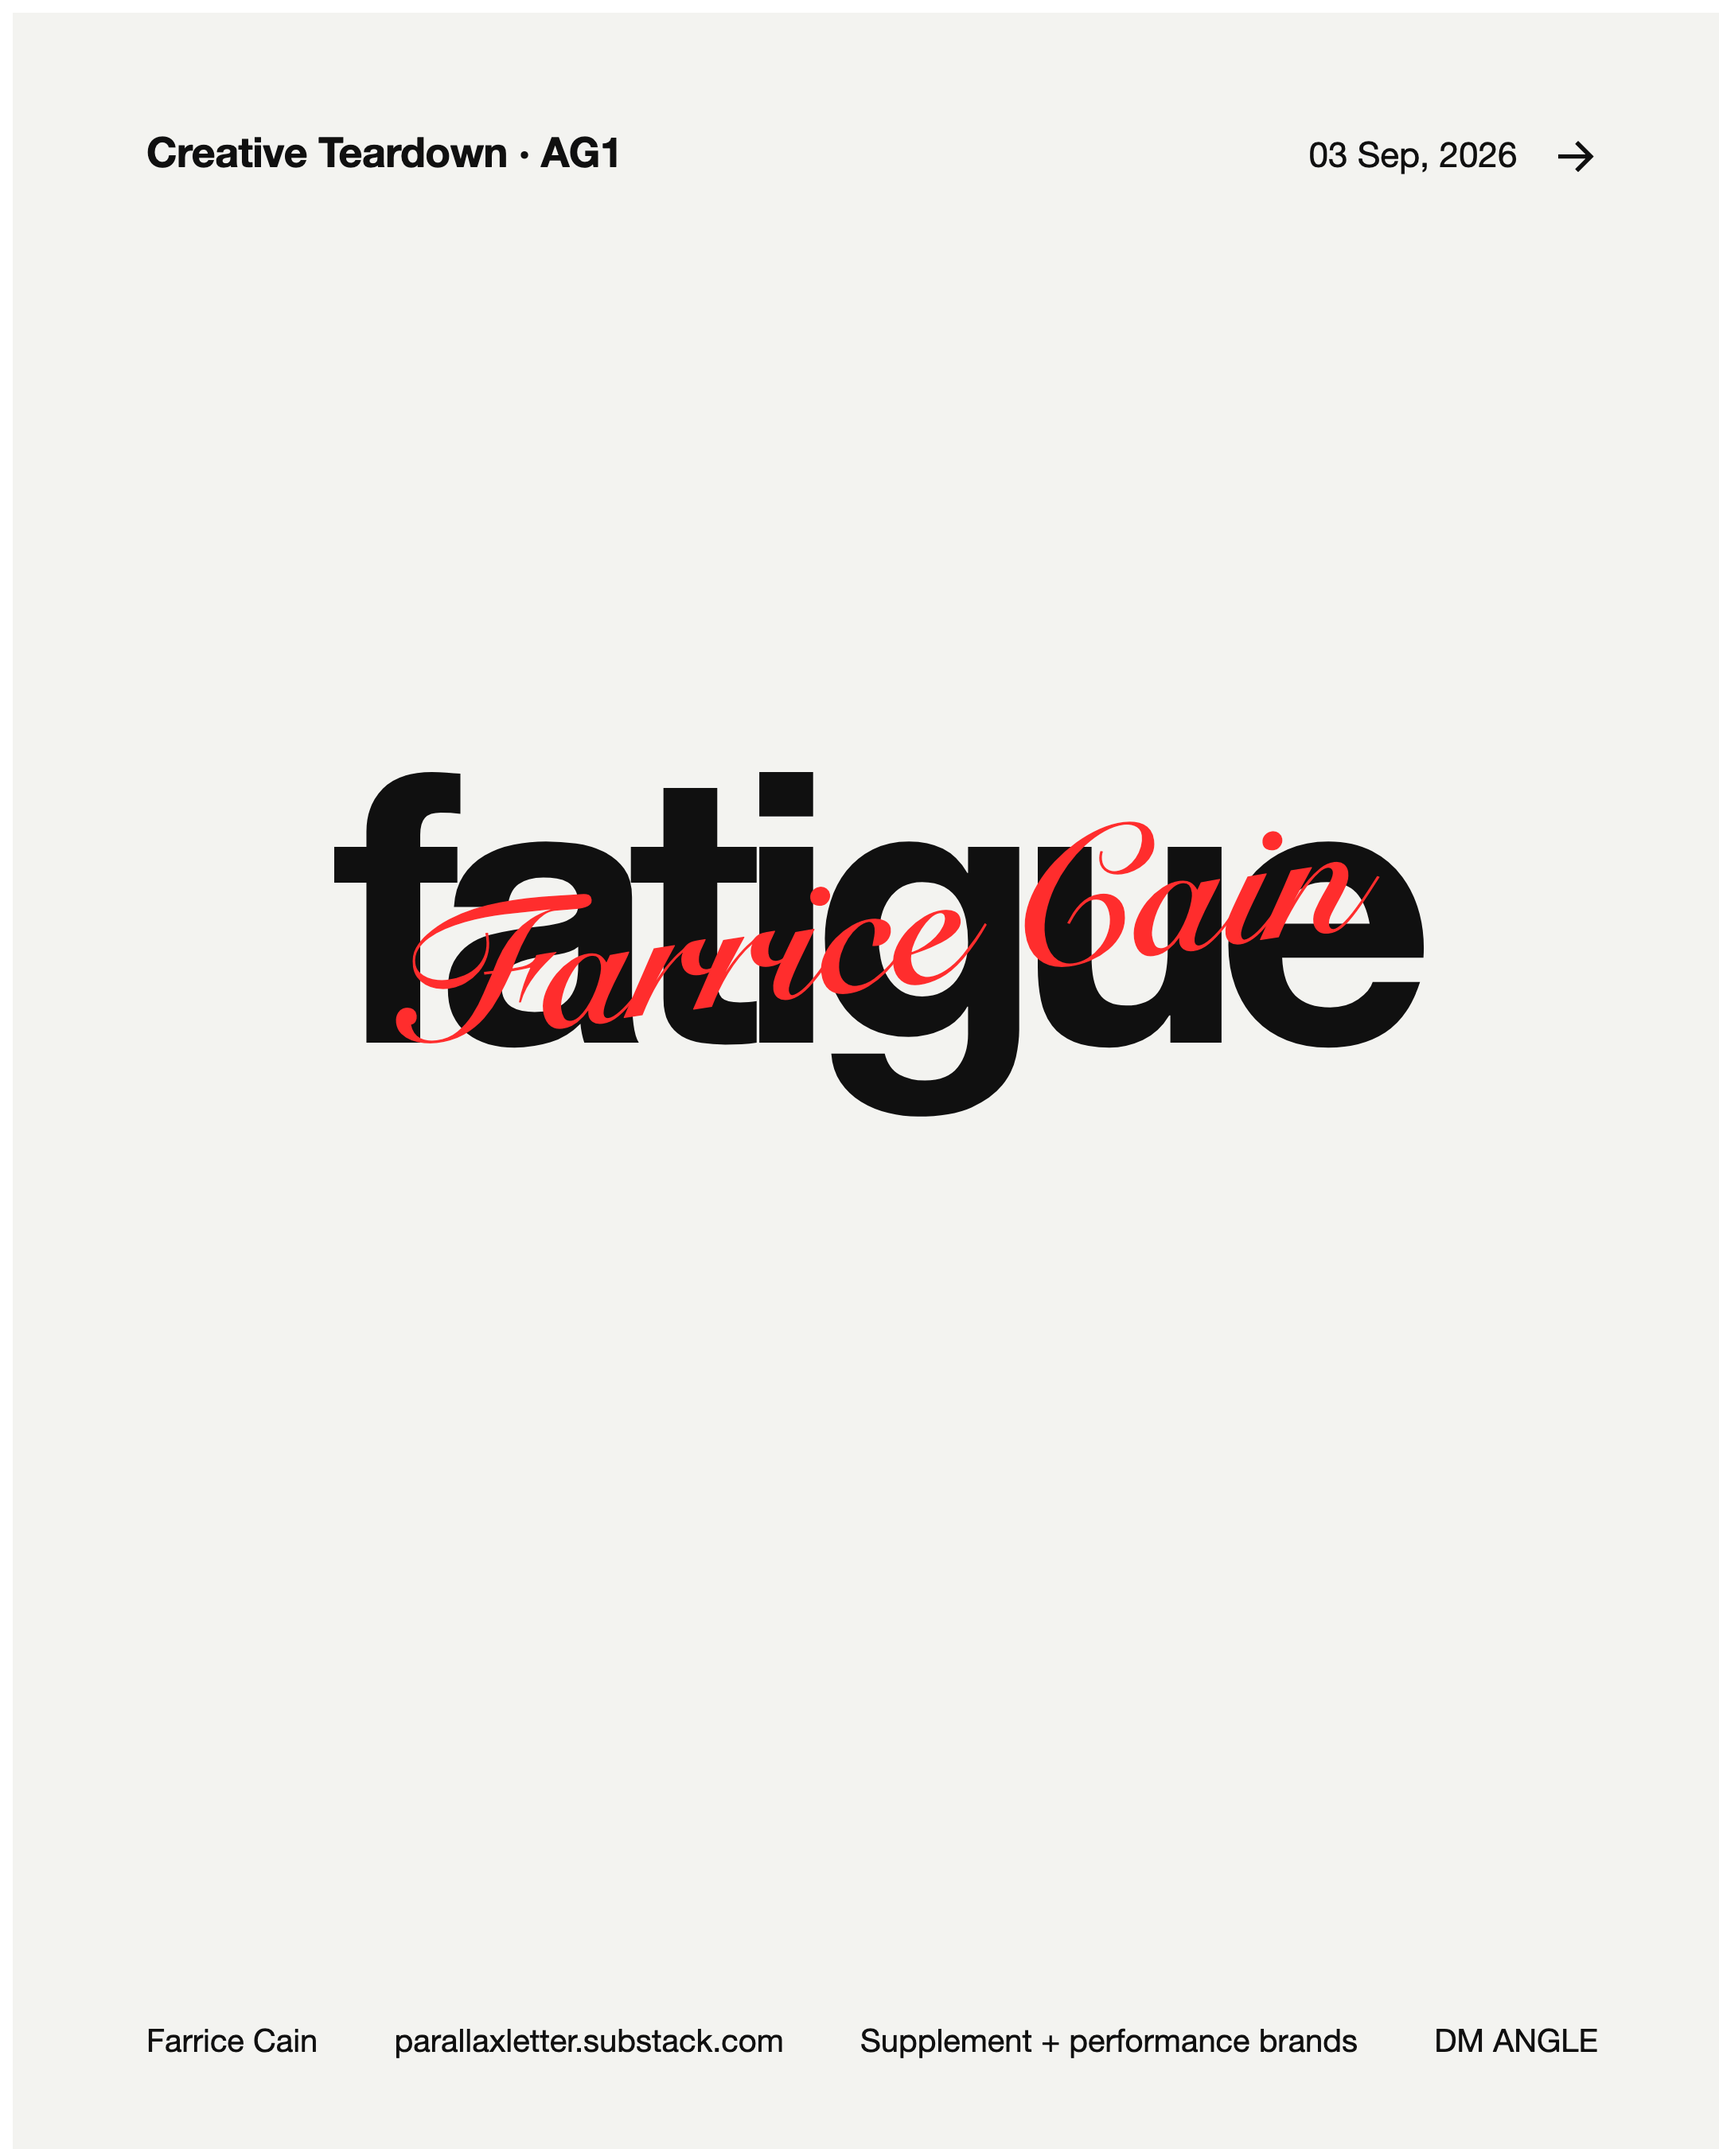
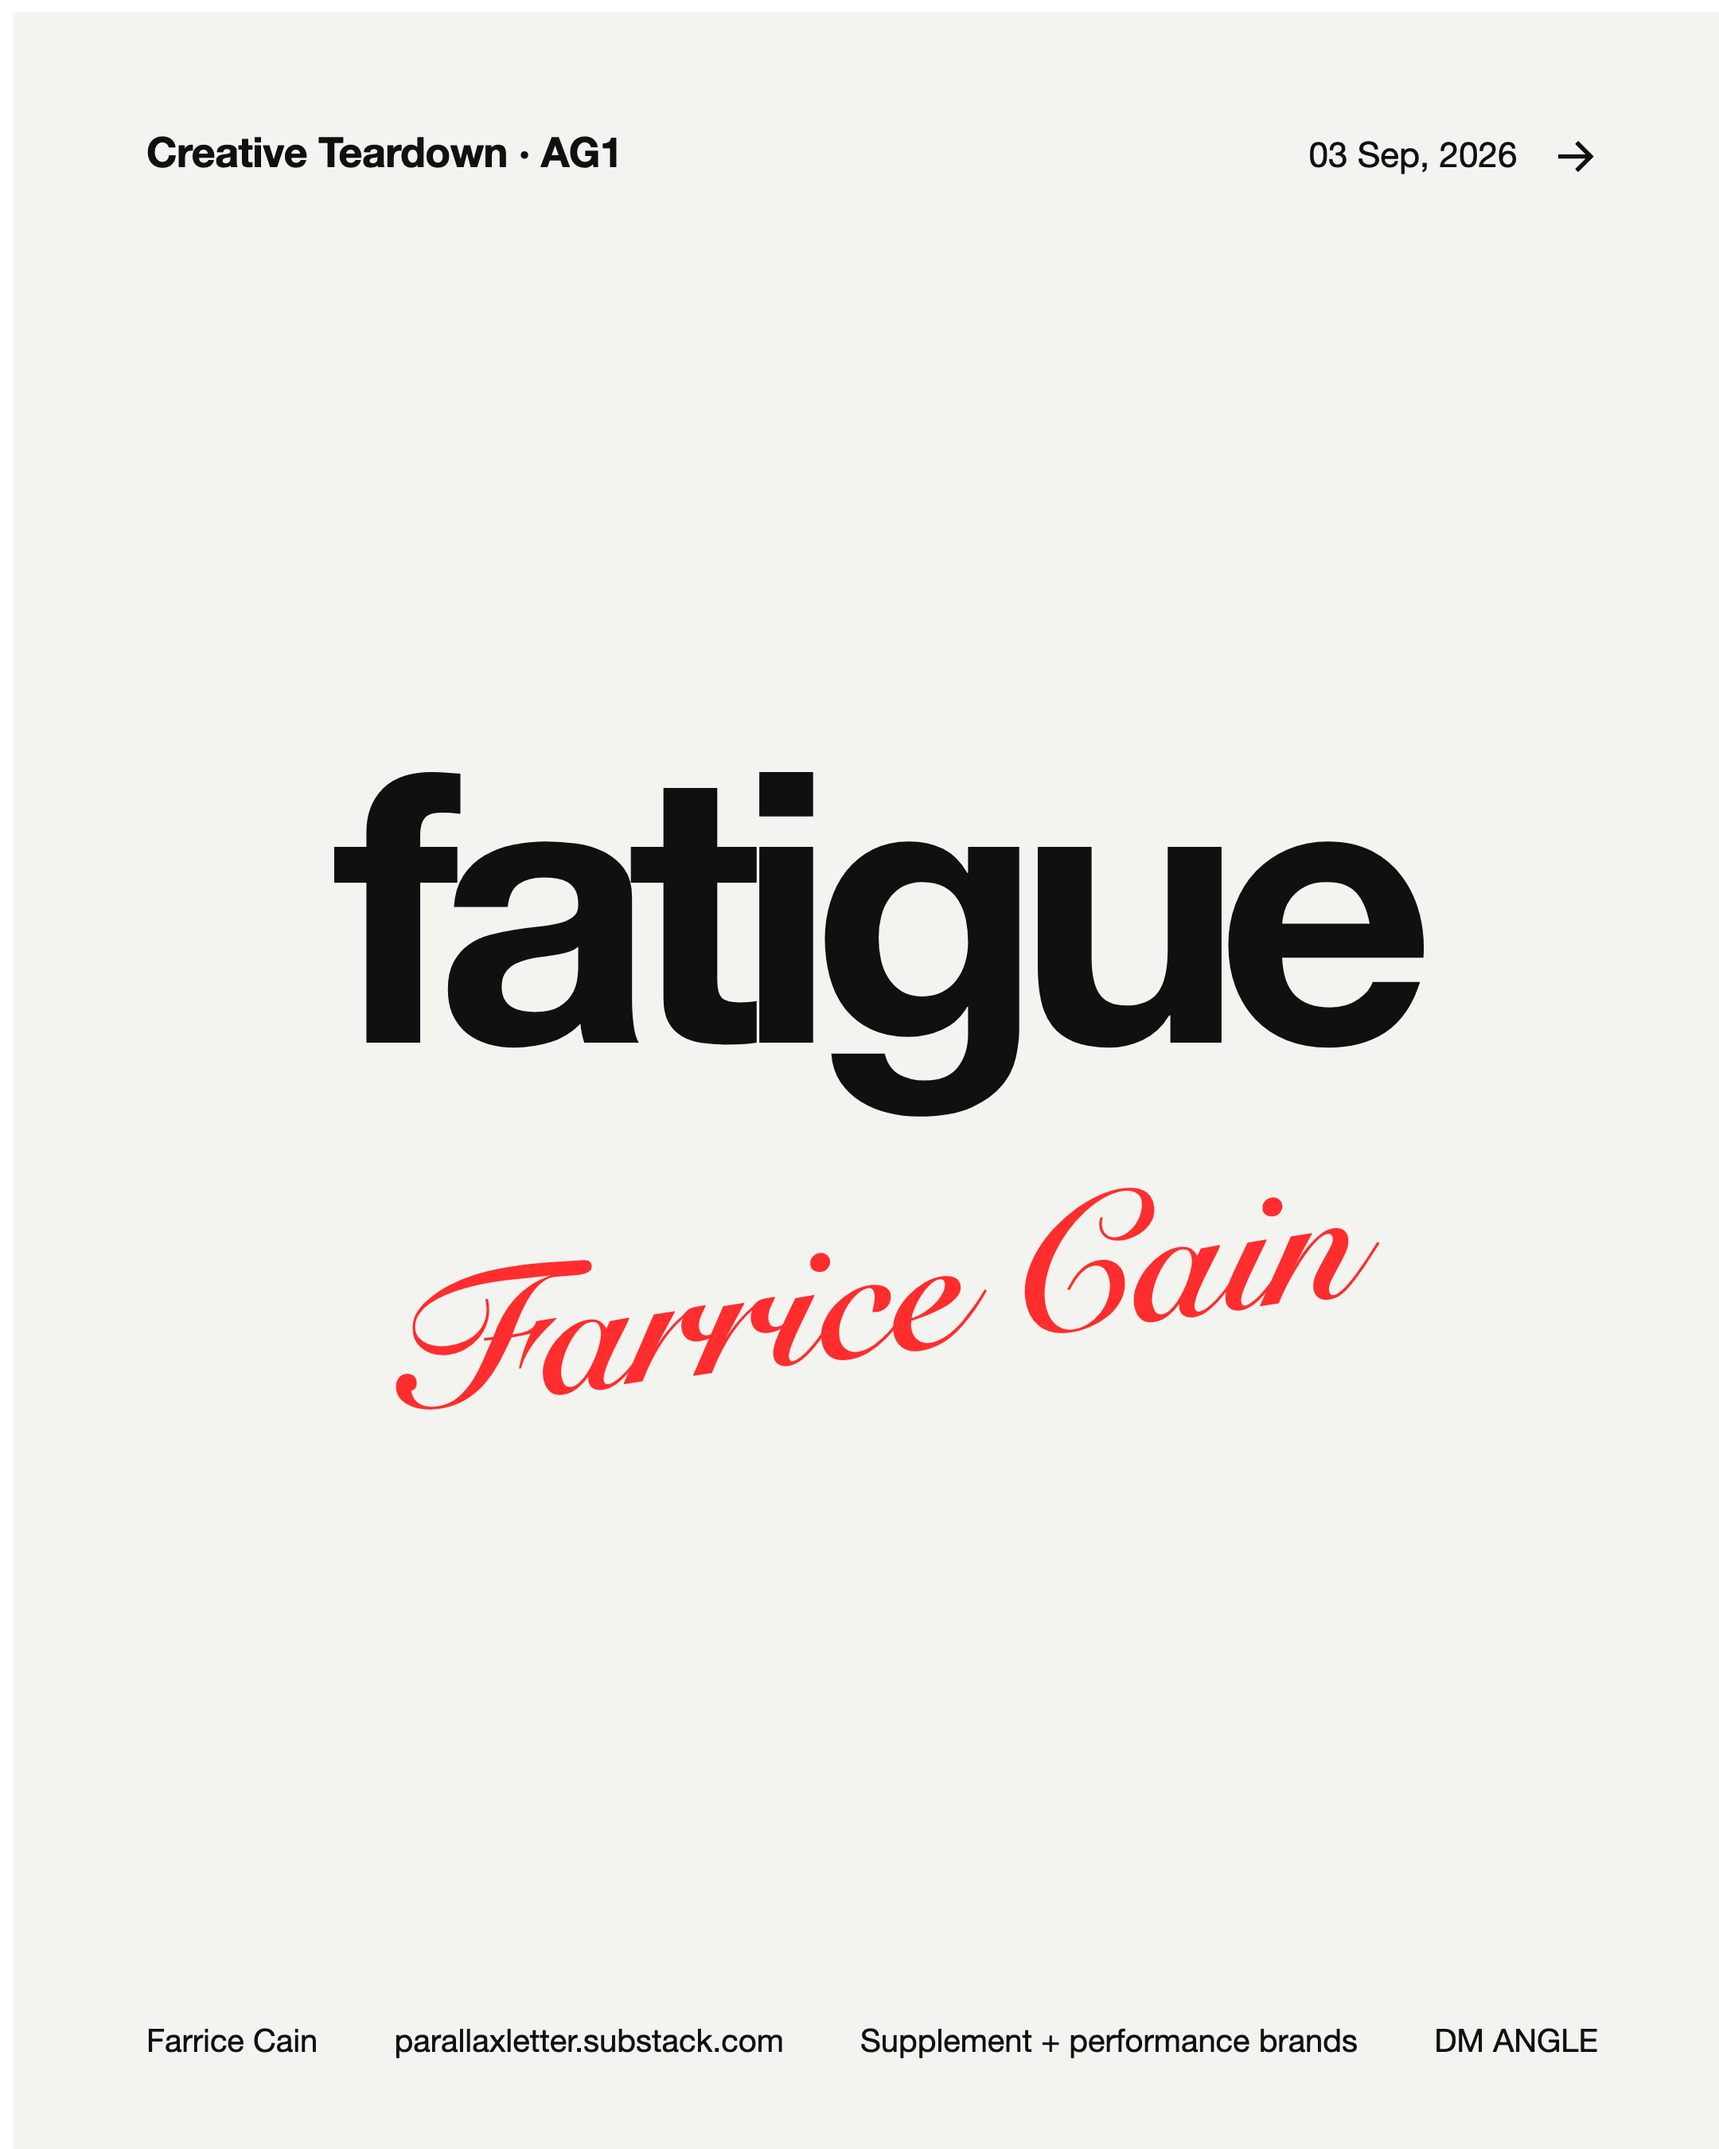
feat(editorial): signature sits under the giant word (Farrice 2026-09-03); user guide 'run it again' steps

diff --git a/brand_context/templates/linkedin-carousel/signature-close-cta/template.html b/brand_context/templates/linkedin-carousel/signature-close-cta/template.html
@@ -78,7 +78,7 @@
       --signature-accent: #FF2D2D;     /* tokens.json colors.signature_accent */
       position: absolute;
       left: 25.93%;                    /* ref: 280px */
-      top: 41.19%;                     /* ref: 556px */
+      top: 60%;                        /* Farrice 2026-09-03: UNDER the giant word (ref had 556px, layered) */
       font-family: "Snell Roundhand", "Zapfino", cursive;
       font-weight: 700;
       font-size: 10.74cqw;             /* ref: 116px */
@@ -86,7 +86,7 @@
       color: var(--signature-accent);
       white-space: nowrap;
       transform: rotate(-7deg);
-      z-index: 5;                      /* above the giant word it overlays */
+      z-index: 5;
     }
 
     .footer-strip {
@@ -130,7 +130,7 @@
     <div class="zone display giant-word" data-slot="HEADLINE_WORD"
          style="left:1%; top:27.4%; width:98%; height:30%;">{{{HEADLINE_WORD}}}</div>
 
-    <!-- SCRIPT SIGNATURE (brand move #10) — overlaid diagonally across the giant word.
+    <!-- SCRIPT SIGNATURE (brand move #10) — set diagonally UNDER the giant word (his 2026-09-03 call: no layering).
          Fixed brand content (tokens.json author.name), positioned left/top only —
          shrink-to-fit width, exactly as the source composition authored it. -->
     <div class="author-signature" data-slot="AUTHOR_SIGNATURE">Farrice Cain</div>

diff --git a/brand_context/templates/linkedin-carousel/signature-cover/template.html b/brand_context/templates/linkedin-carousel/signature-cover/template.html
@@ -52,7 +52,7 @@
 
   .signature {
     position: absolute;
-    left: 22.22%; top: 40%;
+    left: 22.22%; top: 57%;  /* Farrice 2026-09-03: sits UNDER the giant word, never layered on it */
     font-family: "Snell Roundhand", "Zapfino", cursive;  /* interim system script placeholder
       until Farrice's real handwriting SVG lands (moves.md #10; matches the source composition
       file _editorial.css exactly) */
@@ -94,7 +94,7 @@
          autosize net enforces the width fit down to a legible floor. -->
     <div class="headline-word" data-slot="HEADLINE_WORD">{{{HEADLINE_WORD}}}</div>
 
-    <!-- SCRIPT SIGNATURE — fixed brand mark (moves.md #10), overlaid diagonally on the giant
+    <!-- SCRIPT SIGNATURE — fixed brand mark (moves.md #10), set diagonally UNDER the giant (his 2026-09-03 call: no layering, it distracts)
          word. Never varies per post. -->
     <div class="signature" data-slot="SIGNATURE">{{SIGNATURE}}</div>
 

diff --git a/_active/harness/scrapes-skill-systems/USER-GUIDE.md b/_active/harness/scrapes-skill-systems/USER-GUIDE.md
@@ -7,6 +7,15 @@ Type `/scrapes` and paste what you have. A topic. A URL. A draft. A video link. 
 
 You can also just say it in plain words in any session ("make Jen a carousel about still renting"). The router suggests the door with a `[SCRAPES engine]` tag; you tap or type it.
 
+## Run it again (the way blind bar 01 was made)
+1. **Say the brand and the subject in one line.** `/social-carousel farrice: teardown of <brand>, LinkedIn` or `/social-carousel jen: <topic>, Instagram`. The brand word is the lock; if you leave it out the system asks, it never guesses.
+2. **Name the fight.** Named brand or anonymized composite, and the angle you want argued. Default for your brand is the named brand with the fight picked; composite only when a client's privacy needs it.
+3. **Wait for the ledger, not the slides.** Step 1 researches with receipts and captures real screenshots; Step 2.5 writes `VERIFICATION.md` in the run folder (every claim, tag, source, crop). Read that once and sign off on accuracy. Nothing ships that is not on it.
+4. **Copy comes to you as a take file** (caption + seven-slide script). Give word-level edits there. Copy is locked before any machinery runs.
+5. **Slides render at $0** on your approved pool; you get a contact sheet and, when there is more than one take, a blind judging surface (1/2/3 with your frames as the bar). Tap the verdict; it goes into the ratchet in your words.
+6. **Ship by hand.** Sends stay human. Open the run folder under `projects/00-social-content/<date>/<slug>/`, or the Content Studio link the run prints, and post.
+Full recipe with the dead ends: `docs/solutions/2026-09-03-teardown-carousel-copy-lock-evidence-crops.md`.
+
 ## Who is it for? (the brand lock)
 Only the Scrapes doors care. Extractions, research, Parallax, Jen listings, harness work: nothing changes, no setting, no default to worry about.
 

diff --git a/brand_context/templates/linkedin-carousel/REVIEW-NOTES.md b/brand_context/templates/linkedin-carousel/REVIEW-NOTES.md
@@ -23,3 +23,6 @@ His read on the frames (approved with notes): "compositional layout and hierarch
 
 ## How to leave notes next time (verified 2026-09-03 with a test pin)
 Template Studio → top bar → **Comment** pill (toggles comment mode; a toast confirms) → click the slide where the note belongs → a small composer opens → type → press the composer's **Comment** button (Return does NOT submit) → top bar **Save**. The pin lands in `<template>/comments.json` (per template, not at the pool root). Say "read my Studio comments" and every `comments.json` under this pool gets pulled into the next pass. Four pins on four templates is a full review.
+
+## 2026-09-03 · signature placement (Farrice)
+"I don't like the layering of it. It's a little distracting." The red script signature now sits UNDER the giant word on `signature-cover` (top 57%) and `signature-close-cta` (top 60%). The approved frames in `visual_refs/editorial/` still show the layered version; the pool templates are the truth from here. Last template change before the next session.

diff --git a/projects/00-social-content/2026-09-03/blind-bar-01-take-c-greens/pipeline-log.md b/projects/00-social-content/2026-09-03/blind-bar-01-take-c-greens/pipeline-log.md
@@ -64,3 +64,6 @@ Clamp notes are cosmetic autosize warnings (`needs-user-decision` tag from the r
 
 ## Orchestrator correction (2026-09-03)
 Re-rendered slides [2, 6] with the same renderer command after shortening labels to one line and single-lining the band headline. Copy meaning unchanged; take file and slide_plan.yaml updated to match. Cost $0.
+
+## Signature placement (Farrice 2026-09-03)
+Slides 1 and 7 re-rendered: script signature moved UNDER the giant word (no layering). $0.

diff --git a/projects/00-social-content/2026-09-03/blind-bar-01-take-a-ag1/pipeline-log.md b/projects/00-social-content/2026-09-03/blind-bar-01-take-a-ag1/pipeline-log.md
@@ -65,3 +65,6 @@ No AI providers available this run (`available_providers = []`). All 7 slides re
 
 ## Orchestrator correction (2026-09-03)
 Re-rendered slides [6] with the same renderer command after shortening labels to one line. Copy meaning unchanged; take file and slide_plan.yaml updated to match. Cost $0.
+
+## Signature placement (Farrice 2026-09-03)
+Slides 1 and 7 re-rendered: script signature moved UNDER the giant word (no layering). $0.

diff --git a/projects/00-social-content/2026-09-03/blind-bar-01-take-b-ag1/pipeline-log.md b/projects/00-social-content/2026-09-03/blind-bar-01-take-b-ag1/pipeline-log.md
@@ -1,0 +1,3 @@
+
+## Signature placement (Farrice 2026-09-03)
+Slides 1 and 7 re-rendered: script signature moved UNDER the giant word (no layering). $0.
